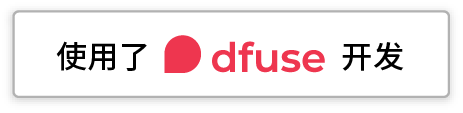
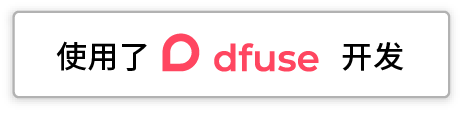
removed eoscanada and more on eosq.app

Changed region(s): [[0.3326, 0.292, 0.7257, 0.6637], [0.0302, 0.0796, 0.9676, 0.1327], [0.1512, 0.531, 0.1814, 0.5575]]

diff --git a/eosq/src/components/footer/footer.component.tsx b/eosq/src/components/footer/footer.component.tsx
@@ -9,7 +9,7 @@ import { fontSize, space } from "styled-system"
 import { theme, styled } from "../../theme"
 import { faTelegramPlane } from "@fortawesome/free-brands-svg-icons"
 import { FontAwesomeIcon } from "@fortawesome/react-fontawesome"
-import { NBSP } from "../../helpers/formatters"
+import { BULLET, NBSP } from "../../helpers/formatters"
 import { getCurrentLanguageValue } from "../settings-selectors/settings.helpers"
 
 const LogoLink: React.ComponentType<any> = styled(Link)`
@@ -38,10 +38,10 @@ const LogoSecond: React.ComponentType<any> = styled.div`
   position: relative;
 `
 
-const StyledLogoImg: React.ComponentType<any> = styled.img`
-  max-height: 16px;
+/* const StyledLogoImg: React.ComponentType<any> = styled.img`
+  max-height: 50px;
   margin-bottom: 6px;
-`
+` */
 
 const StyledText: React.ComponentType<any> = styled(Text)`
   &:hover {
@@ -77,19 +77,18 @@ const BaseFooter = () => (
               q
             </LogoSecond>
           </LogoLink>
-          <Cell pt={[3]}>
-            <Text color={theme.colors.primary}>{t("footer.subTitle")}</Text>
-          </Cell>
-          <ExternalTextLink to="https://eoscanada.com">
-            <StyledLogoImg src="/images/logo-eos-canada.svg" />
-          </ExternalTextLink>
+          {/* <Cell pt={[3]}>
+          <Text color={theme.colors.primary}>{t("footer.subTitle")}</Text>
+        </Cell>
+        <ExternalTextLink to="https://dfuse.io/">
+          <StyledLogoImg src="/images/dfuse-logo-white-01.svg" />
+        </ExternalTextLink> */}
         </Cell>
         <Cell justifySelf="right" textAlign="right" alignSelf="right" pt={[4]}>
-          <ExternalTextLink to="https://t.me/eoscanada">
+          <ExternalTextLink to="https://t.me/dfuseAPI">
             <StyledText pr={[2]} display="inline-block" color={theme.colors.bleu6}>
               {t("footer.telegram")}
             </StyledText>
-            {NBSP}
             <StyledFont color={theme.colors.bleu6} icon={faTelegramPlane} size="lg" />
           </ExternalTextLink>
         </Cell>
@@ -107,30 +106,34 @@ const BaseFooter = () => (
       textAlign="center"
     >
       <a
-        href={`https://www.dfuse.io/${getCurrentLanguageValue()}`}
-        title="dfuse API for EOS"
+        href={`https://dfuse.io/${getCurrentLanguageValue()}`}
+        title="The dfuse Blockchain Data Platform"
         target="_blank"
       >
         <img
-          src={`https://www.dfuse.io/hubfs/built-with-dfuse${
-            getCurrentLanguageValue() === "zh" ? "-CN" : ""
+          src={`/images/built-with-dfuse${
+              getCurrentLanguageValue() === "zh" ? "-CN" : ""
           }-01.png`}
-          title="dfuse API for EOS"
+          title="The dfuse Blockchain Data Platform"
           width="210"
           height="auto"
         />
+        <Text color={theme.colors.bleu6} fontSize={[1]}>
+          {t("footer.aboutDfuse")}
+        </Text>
       </a>
     </Cell>
     <Cell p={[3]} mt={[3]} borderTop={`1px solid ${theme.colors.bleu10}`} textAlign="center">
       <Text color={theme.colors.primary} fontSize={[1]}>
         {t("footer.copyright", { year: new Date().getFullYear() })}
-        &nbsp;
+      </Text>
+      <Text color={theme.colors.primary} fontSize={[1]}>
         <ExternalTextLink fontSize={[1]} to={t("footer.privacyPolicyLink")}>
           <StyledText display="inline-block" fontSize={[1]} color={theme.colors.bleu6}>
             {t("footer.privacyPolicy")}
           </StyledText>
         </ExternalTextLink>
-        .{NBSP}
+        {NBSP}{BULLET}{NBSP}
         <ExternalTextLink fontSize={[1]} to={t("footer.termsOfServicesLink")}>
           <StyledText display="inline-block" fontSize={[1]} color={theme.colors.bleu6}>
             {t("footer.termsOfServices")}

diff --git a/eosq/public/index.html b/eosq/public/index.html
@@ -1,37 +1,29 @@
 <!DOCTYPE html>
 <html lang="en">
   <head>
+    <meta charset="utf-8" />
+    <meta name="viewport" content="width=device-width, initial-scale=1, shrink-to-fit=no" />
+
     <title>eosq: High-Precision Block Explorer</title>
 
-    <meta charset="utf-8" />
-
-    <meta name="author" content="EOS Canada" />
-    <meta
-      name="keywords"
-      content="EOS, eosq, Block Explorer, Query, Blockchain, votes, block producers, EOS transactions, EOS Vote, EOS Network, EOS actions, EOS mainnet, EOSIO, EOS account, explorer, search"
-    />
-    <meta name="viewport" content="width=device-width, initial-scale=1, shrink-to-fit=no" />
-    <meta
-      name="description"
-      content="eosq is a high-precision block explorer that provides access to detailed, accurate, actionable data about accounts, actions, Block Producers, and more on the EOS mainnet"
-    />
+    <meta name="author" content="dfuse Platform Inc." />
+    <meta name="copyright" content="dfuse Platform Inc.">
+    <meta name="application-name" content="eosq.app">
+    <meta name="description" content="eosq is a high-precision block explorer that provides access to accurate, detailed, and actionable data about accounts, actions, Block Producers, and more for the EOSIO blockchain protocol." />
 
     <meta property="og:title" content="eosq: High-Precision Block Explorer" />
     <meta property="og:type" content="article" />
     <meta property="og:image" content="https://eosq.app/images/favicon-144x144px.png" />
     <meta property="og:url" content="https://eosq.app" />
-    <meta
-      property="og:description"
-      content="eosq is a high-precision block explorer that provides access to detailed, accurate, actionable data about accounts, actions, Block Producers, and more on the EOS mainnet."
-    />
+    <meta property="og:description" content="eosq is a high-precision block explorer that provides access to accurate, detailed, and actionable data about accounts, actions, Block Producers, and more for the EOSIO blockchain protocol." />
+
     <meta name="twitter:card" content="summary" />
     <meta name="twitter:title" content="eosq: High-Precision Block Explorer" />
-    <meta
-      name="twitter:description"
-      content="eosq is a high-precision block explorer that provides access to detailed, accurate, actionable data about accounts, actions, Block Producers, and more on the EOS mainnet."
-    />
+    <meta name="twitter:description" content="eosq is a high-precision block explorer that provides access to accurate, detailed, and actionable data about accounts, actions, Block Producers, and more for the EOSIO blockchain protocol." />
     <meta name="twitter:image" content="https://eosq.app/images/favicon-144x144px.png" />
+
     <meta name="baidu-site-verification" content="ByjRlhOH2m" />
+
     <link rel="manifest" href="%PUBLIC_URL%/manifest.json" />
     <link rel="shortcut icon" href="%PUBLIC_URL%/favicon.png" />
     <link

diff --git a/eosq/src/i18n/en/footer.i18n.ts b/eosq/src/i18n/en/footer.i18n.ts
@@ -1,15 +1,16 @@
 export default {
   footer: {
-    telegram: "Support on Telegram",
-    subTitle: "Developed by dfuse for the EOS community",
-    copyright: "© {{year}} dfuse Platform Inc. All Rights Reserved.",
-    madeWithLove: "Made with Love by",
+    telegram: "Community & team support on Telegram",
+    subTitle: "Developed and powered by",
+    aboutDfuse: "dfuse is an open source blockchain data platform",
+    copyright: "© 2018-{{year}} dfuse Platform Inc. All Rights Reserved.",
     privacyPolicy: "Privacy Policy",
-    privacyPolicyLink: "https://www.eoscanada.com/en/privacy-policy",
-    termsOfServicesLink: "https://www.dfuse.io/en/terms",
+    privacyPolicyLink: "https://dfuse.io/en/privacy-policy",
     termsOfServices: "Terms of Service",
-    eoscanada: "EOS Canada",
-    eoscanadaLink: "https://www.eoscanada.com",
-    eoscanadaLinkCombined: "Made with love by <0>EOS Canada</0>"
+    termsOfServicesLink: "https://dfuse.io/en/terms"
   }
 }
+
+/**
+ * subTitle is not used at the moment
+ * */

diff --git a/eosq/src/i18n/zh/footer.i18n.ts b/eosq/src/i18n/zh/footer.i18n.ts
@@ -1,15 +1,16 @@
 export default {
   footer: {
-    telegram: "Telegram技术支持群",
-    subTitle: "由 dfuse 为 EOS 社区而开发",
-    copyright: "© {{year}} dfuse Platform Inc. 版权所有	",
-    madeWithLove: "Made with Love by",
+    telegram: "Telegram 社区&团队支持群",
+    subTitle: "need to translate",
+    aboutDfuse: "dfuse 是一个开源区块链数据平台",
+    copyright: "© 2018-{{year}} dfuse Platform Inc. 版权所有",
     privacyPolicy: "隐私政策",
-    privacyPolicyLink: "https://www.eoscanada.com/en/privacy-policy",
+    privacyPolicyLink: "https://dfuse.io/zh/%E9%9A%90%E7%A7%81%E6%94%BF%E7%AD%96/",
     termsOfServices: "服务条款",
-    termsOfServicesLink: "https://www.dfuse.io/en/terms",
-    eoscanada: "EOS Canada",
-    eoscanadaLink: "https://www.eoscanada.com",
-    eoscanadaLinkCombined: "<0>EOS Canada</0> 用爱制造"
+    termsOfServicesLink: "https://dfuse.io/en/terms"
   }
 }
+
+/**
+ * subTitle is not used at the moment
+ * */

diff --git a/eosq/src/components/header-menu/header-menu.tsx b/eosq/src/components/header-menu/header-menu.tsx
@@ -47,14 +47,15 @@ export class HeaderMenu extends React.Component {
               <HeaderLogo variant="light" />
               <Cell pt={[4]}>
                 <a
-                  href={`https://www.dfuse.io/${getCurrentLanguageValue()}`}
-                  title="dfuse API for EOS"
+                  href={`https://dfuse.io/${getCurrentLanguageValue()}`}
+                  title="The dfuse Blockchain Data Platform"
+                  target="_blank"
                 >
                   <img
-                    src={`https://www.dfuse.io/hubfs/built-with-dfuse${
-                      getCurrentLanguageValue() === "zh" ? "-CN" : ""
+                    src={`/images/built-with-dfuse${
+                        getCurrentLanguageValue() === "zh" ? "-CN" : ""
                     }-01.png`}
-                    title="dfuse API for EOS"
+                    title="The dfuse Blockchain Data Platform"
                     width="210"
                     height="auto"
                   />

diff --git a/eosq/src/components/header-menu/header-menu-mobile.tsx b/eosq/src/components/header-menu/header-menu-mobile.tsx
@@ -233,12 +233,16 @@ export class HeaderMenuMobile extends React.Component<Props, State> {
             pt={[4]}
             style={{ position: "absolute", bottom: "20px", textAlign: "center", width: "100%" }}
           >
-            <a href={`https://www.dfuse.io/${getCurrentLanguageValue()}`} title="dfuse API for EOS">
+            <a
+              href={`https://dfuse.io/${getCurrentLanguageValue()}`}
+              title="The dfuse Blockchain Data Platform"
+              target="_blank"
+            >
               <img
-                src={`https://www.dfuse.io/hubfs/built-with-dfuse${
-                  getCurrentLanguageValue() === "zh" ? "-CN" : ""
+                src={`/images/built-with-dfuse${
+                    getCurrentLanguageValue() === "zh" ? "-CN" : ""
                 }-01.png`}
-                title="dfuse API for EOS"
+                title="The dfuse Blockchain Data Platform"
                 width="210"
                 height="auto"
               />

diff --git a/README.md b/README.md
@@ -2,7 +2,7 @@
 [![reference](https://img.shields.io/badge/godoc-reference-5272B4.svg?style=flat-square)](https://pkg.go.dev/github.com/dfuse-io/dfuse-eosio)
 [![License](https://img.shields.io/badge/License-Apache%202.0-blue.svg)](https://opensource.org/licenses/Apache-2.0)
 
-All **[dfuse.io services](https://www.dfuse.io/technology)** for EOSIO,
+All **[dfuse.io services](https://dfuse.io/technology)** for EOSIO,
 running from your laptop or from a container, released as a single
 statically linked binary: `dfuseeos`.
 
